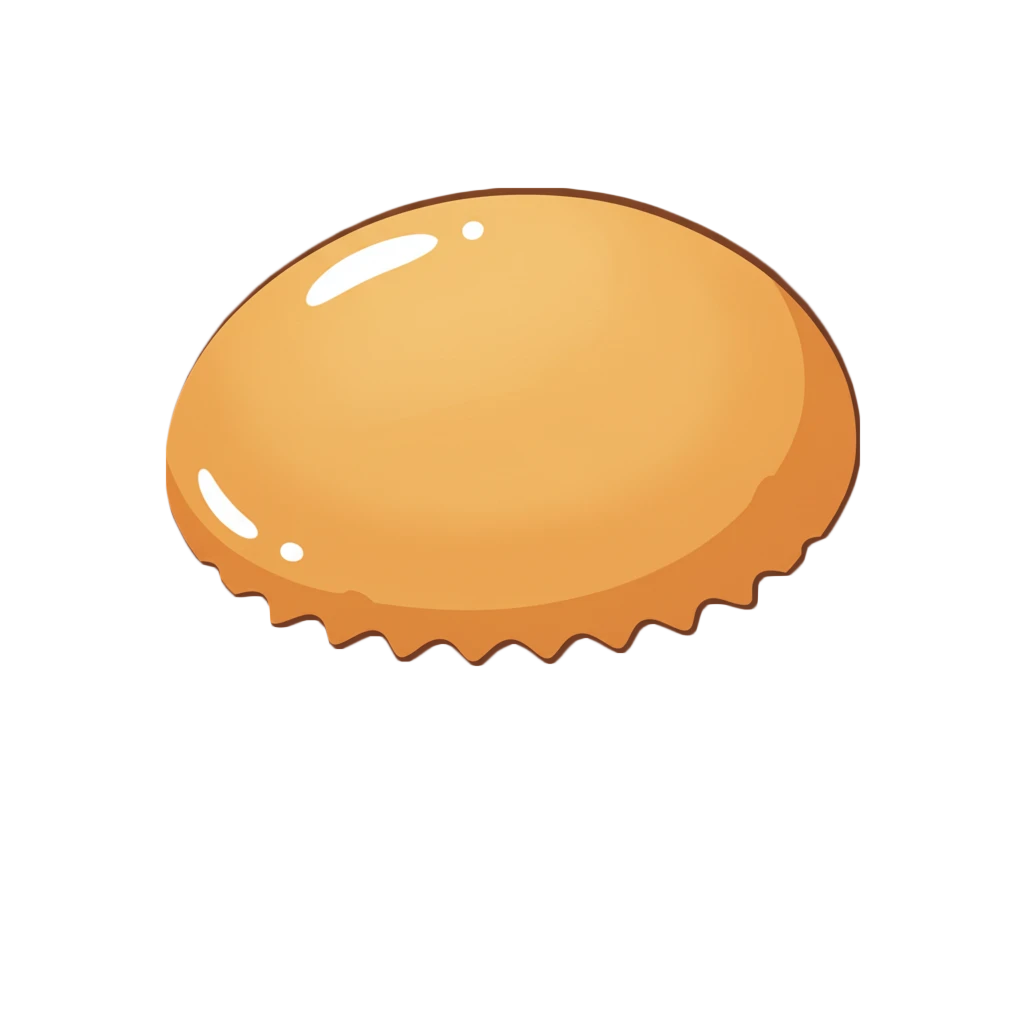
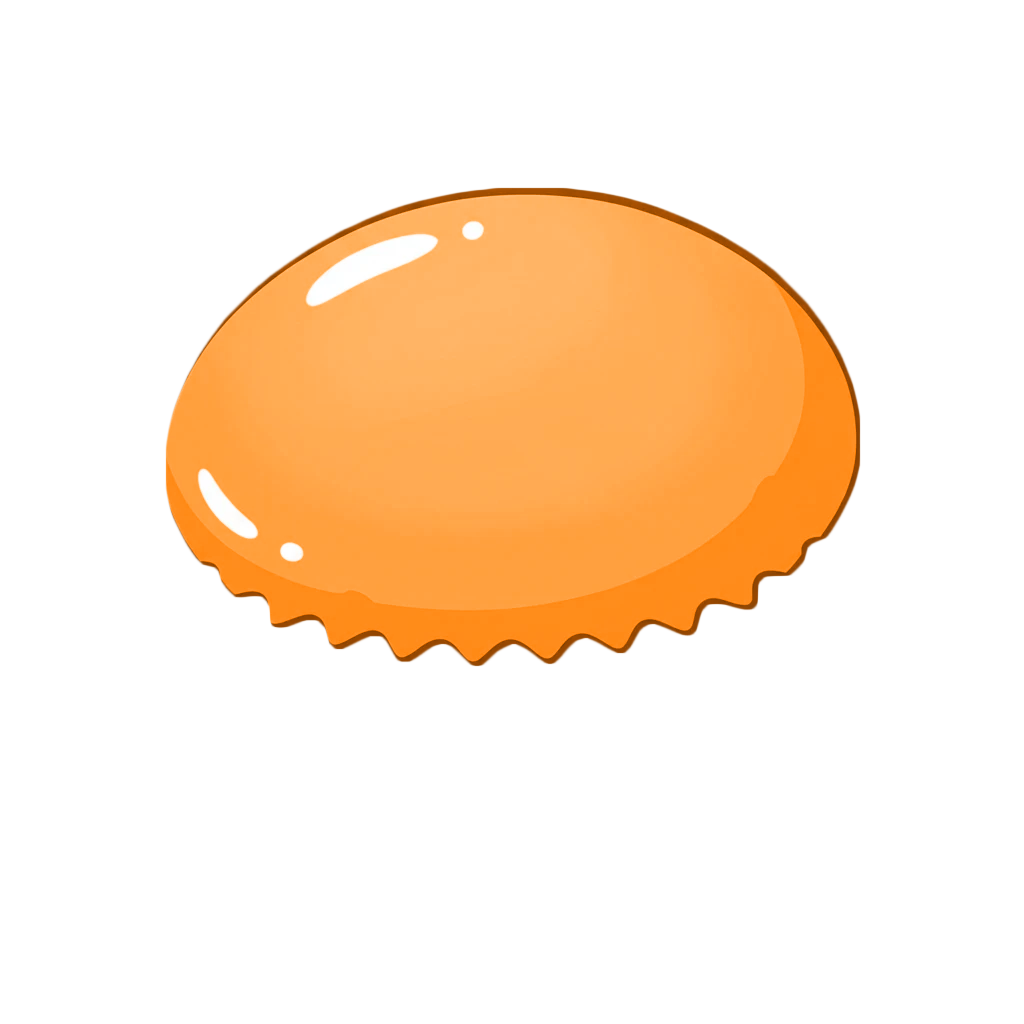
Band keeps its words on a phone, one-word hero CTAs, bigger seal, new orange art
THE BAND. On a phone the fulfillment band hid its label, its note AND
its action, leaving a clock icon and a cross with no text between them —
and hiding the action took away the only way to book a pickup slot
before checkout at the width where most people shop. The label and the
action stay now; what gives instead is padding and type size, which is
enough, because the band is two words and a control. The note still
goes: it is the one piece that repeats what the page already says.

HERO CTAS. "Order delivery" and "Book a pickup" are the wrong length for
two columns on a phone, and the verbs carry no information — both
buttons go to the same catalogue, and what differs is delivery or
pickup. So on a phone that is all they say. Swapped by CSS rather than
by measuring the viewport in JS, so there is no flash of the wrong label
on first paint, and only one label is ever in the layout so the button
measures the text it is actually showing.

THE SEAL. 26% of the composition to 40%, and moved up and out so the
extra size lands on the donuts rather than on the copy beside them.

THE LAB. The twelve supplied orange icing variants replace the ones in
public/assets/builder — same 1024x1024 as the rest of the set, same
paths, eleven changed and twist already identical.

STICKY. I could not reproduce the header failing: it measures
position: sticky with top 0 after scrolling to 2500 on /shop/ at 375px,
and 900 on the homepage. What I did find is a real hazard behind it —
[…]

diff --git a/src/index.css b/src/index.css
@@ -585,6 +585,22 @@ nav a,
   }
 }
 
+/* The two labels each CTA carries. Only one is ever in the layout, so the
+   button measures the label it is actually showing — a hidden-but-present
+   long label would keep the button sized for text nobody can see. */
+.cta-short {
+  display: none;
+}
+
+@media (max-width: 560px) {
+  .cta-long {
+    display: none;
+  }
+  .cta-short {
+    display: inline;
+  }
+}
+
 .hero__proof {
   margin-top: clamp(10px, 1.4vw, 16px);
 }
@@ -840,9 +856,29 @@ nav a,
   .pickup-banner__note { display: none; }
 }
 
+/* The label and the action stay. Hiding the swap took away the only way to
+   book a slot before checkout on the width where most people shop — and
+   hiding the lead left a clock, a cross, and nothing saying what either was
+   for. What goes instead is the padding and the type size: the band is two
+   words and a control, which fits.
+
+   The note is still the part that gives: it is the one piece here that
+   repeats what the page already says. */
 @media (max-width: 480px) {
-  .pickup-banner__lead { display: none; }
-  .pickup-banner__swap { display: none; }
+  .pickup-banner__inner {
+    gap: 8px;
+    padding-inline: 12px;
+  }
+  .pickup-banner__lead,
+  .pickup-banner__swap {
+    font-size: 12px;
+  }
+  .pickup-banner__swap {
+    /* Never truncated to a stub — the whole point of keeping it is that it
+       reads as an offer. */
+    white-space: nowrap;
+    flex: none;
+  }
 }
 
 /* Delivery's band has no selects, so its own sentence survives further down —
@@ -1060,10 +1096,14 @@ nav a,
   z-index: 3;
   /* Measured, not guessed: at 8% it cleared the pink donut's right edge by
      22px and read as a logo parked in the margin. 16% puts it onto the icing. */
-  top: 1%;
-  right: 16%;
-  width: 26%;
-  max-width: 130px;
+  /* Significantly larger than the 26% it was, and pulled up and out so the
+     extra size lands on the composition rather than on the copy beside it. A
+     mark of origin that has to be looked for is doing nothing; at this size it
+     is the second thing seen after the donuts. */
+  top: -4%;
+  right: 6%;
+  width: 40%;
+  max-width: 210px;
   height: auto;
   pointer-events: none;
   /* Its own shadow, so it reads as sitting ON the donut rather than printed

diff --git a/src/App.tsx b/src/App.tsx
@@ -54,6 +54,9 @@ function Site({ ready, slideIn }: { ready: boolean; slideIn: boolean }) {
   );
 }
 
+/** Matches `.site-slide-in`'s animation in index.css, plus a frame of slack. */
+const SLIDE_MS = 620;
+
 export default function App() {
   // The preloader owns the first moment. The site — and so the header — is
   // already mounted underneath it, because the hand-off measures the real
@@ -67,6 +70,22 @@ export default function App() {
   /* The return variant's navy panel wipes right while the page slides in from
      the left. Both start on `onExit`, one movement; `onDone` then unmounts. */
   const [sliding, setSliding] = useState(false);
+  /* And taken off again once it has played.
+
+     `.site-slide-in` animates a transform, and a transformed element is the
+     containing block for every `position: fixed` descendant under it — the
+     cart drawer, the product panel, the auth modal, all of which expect the
+     viewport. The class was set once and never cleared, so the wrapper kept
+     an animation on it for the life of the page; while that animation is in
+     flight the whole site is a containing block, and anything that stalls it
+     leaves the page shifted with fixed positioning quietly broken.
+
+     Half a second after it starts, it has done its job. */
+  useEffect(() => {
+    if (!sliding) return;
+    const done = window.setTimeout(() => setSliding(false), SLIDE_MS);
+    return () => window.clearTimeout(done);
+  }, [sliding]);
   /* Stable identities. The preloader no longer restarts if these change, but a
      frame loop should not be handed a moving target either way. */
   const onExit = useCallback(() => setSliding(true), []);

diff --git a/src/components/Hero.tsx b/src/components/Hero.tsx
@@ -114,11 +114,22 @@ export default function Hero({ ready }: { ready: boolean }) {
               buttons side by side is two primary actions, which is none — the
               pair still has to say which one the bakery expects most people to
               take, and it is the one that does not require leaving the house. */}
+          {/* One word each on a phone, the full phrase above it.
+
+              Side by side in two columns, "Order delivery" and "Book a pickup"
+              are the wrong length for the space — they wrapped to two lines,
+              and the verbs are the half carrying no information anyway. Both
+              buttons go to the same catalogue; what differs is delivery or
+              pickup, so on a phone that is all they say. The <span>s are
+              swapped by CSS rather than by measuring the viewport in JS, so
+              there is no flash of the wrong label on first paint. */}
           <BrandButton href={SHOP_HREF} onClick={choose('delivery')}>
-            Order delivery
+            <span className="cta-long">Order delivery</span>
+            <span className="cta-short">Delivery</span>
           </BrandButton>
           <BrandButton href={SHOP_HREF} variant="outline" onClick={choose('pickup')}>
-            Book a pickup
+            <span className="cta-long">Book a pickup</span>
+            <span className="cta-short">Pickup</span>
           </BrandButton>
         </motion.div>
 
